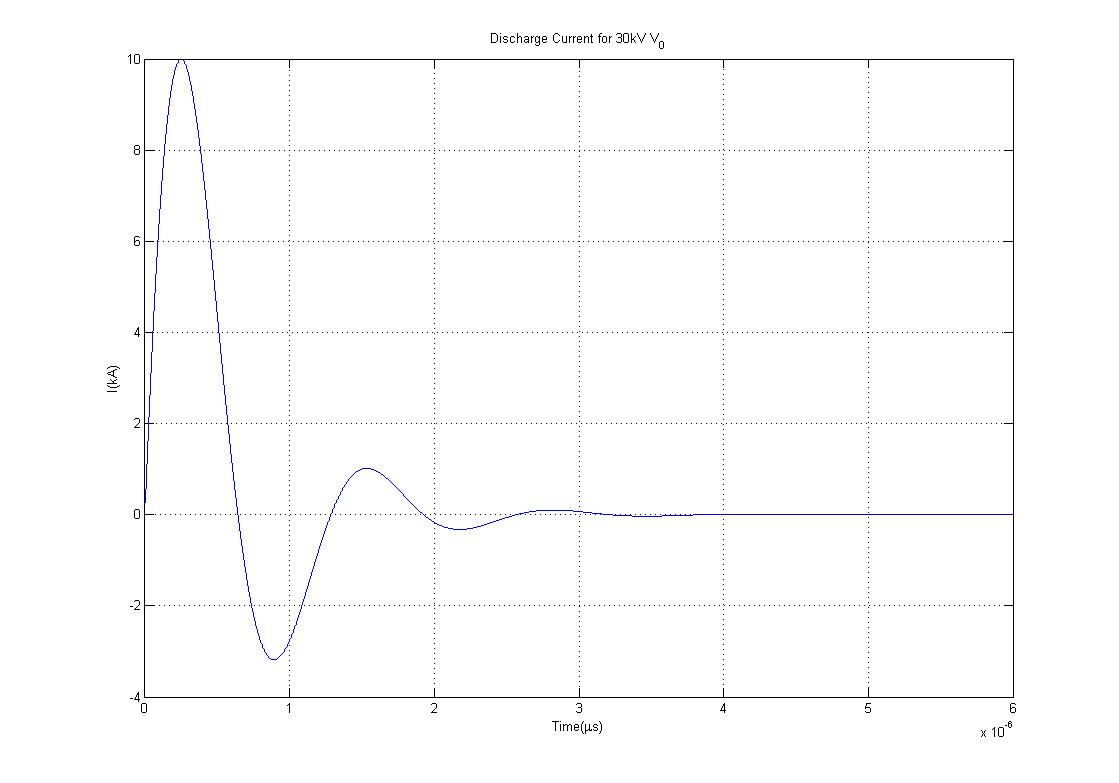
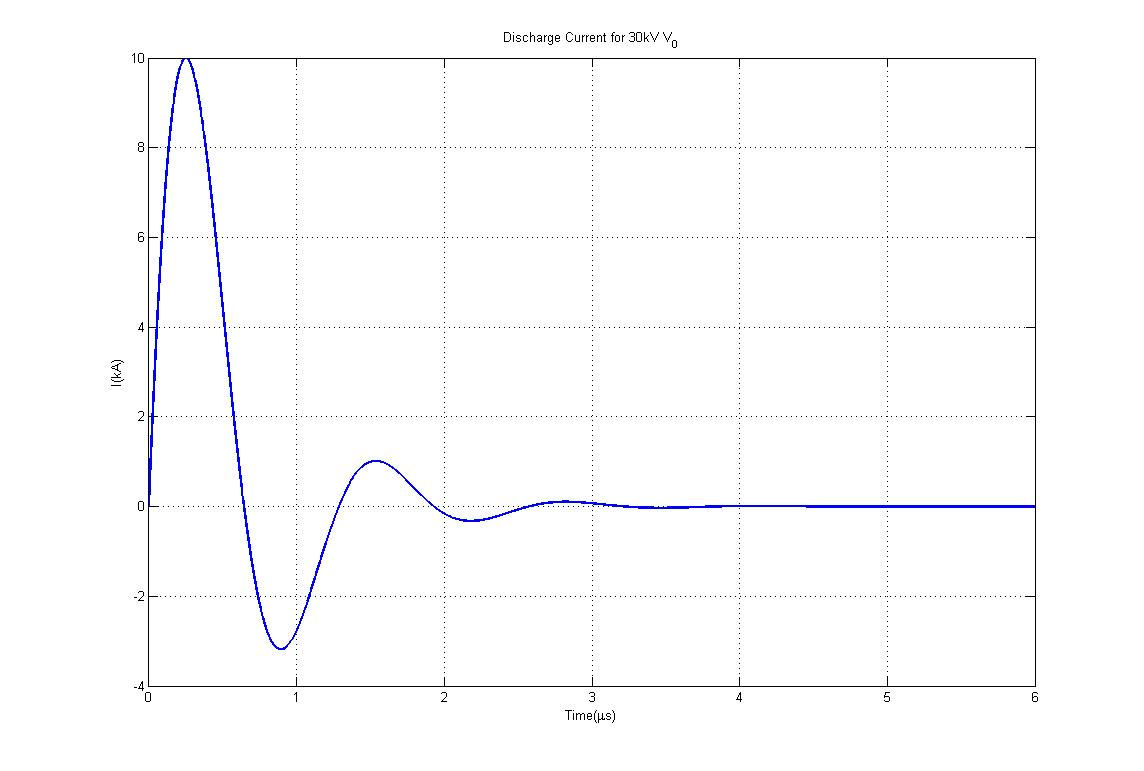
Complete code for Q4
Q4 Completed

diff --git a/Coursework 2/Question 4/Q4.m b/Coursework 2/Question 4/Q4.m
@@ -34,11 +34,7 @@ title('Graph of F(\gamma) for \gamma =-1:1')
 gamma = 0.3421;
 % Calculate L using Im1 equation and R using gamma equation.
 L = ((V0.*sqrt(C).*g(gamma))./Im1).^2
-%Lt = ((tm1./f(gamma))^2).*(1./C)
 R = 2.*gamma.*sqrt(L./C)
-% Gives values of;
-%   L = 36.98 H
-%   R = 3.56*10^-5 Ohm / 35.6 uOhm
 
 
 %% Part D
@@ -46,10 +42,10 @@ R = 2.*gamma.*sqrt(L./C)
 %gamma = 0.5*R*sqrt(C/L)
 omega = (1/sqrt(L*C)).*sqrt(1-(gamma^2))
 t = 0:1*10^-10:0.6*10^-5;
-Im = (V0./(omega.*L)).*sin(omega.*t).*exp(-(R/(2*L)).*t)./(1*10^3);
+Im = (V0./(omega.*L)).*sin(omega.*t).*exp(-(R/(2*L)).*t);
 tm = (sqrt(L.*C)).*((1./sqrt(1-(gamma.^2))).*asin(sqrt(1-(gamma.^2))));
 figure
-plot(t,Im)
+plot(t.*10^6,Im./(1*10^3),'Linewidth',2)
 grid on
 xlabel('Time(\mus)')
 ylabel('I(kA)')
@@ -62,38 +58,50 @@ T = 2*Tz;
 Lest = (T^2)./(4.*(pi^2).*C)
 Rest = (-2./pi).*(sqrt(Lest./C)).*(log(abs(Im2)./Im1))
 
-% %% Part E 
-% % Repeat C and D from the following conditions.
-% C = 54*10^-6;
-% V0 = 27*10^3;
-% Im1 = 1*10^6;
-% tm1 = 1.7*10^-6;
-% % Repeat from part C
-% gamma = -1:0.01:1;
-% F = C.*V0.*f(gamma).*g(gamma)-(tm1*Im1);
-% % Plot
-% figure 
-% plot(gamma,F,'linewidth',2)
-% grid on
-% xlabel('\gamma')
-% ylabel('F(\gamma)')
-% title('Graph of F(\gamma) for \gamma =-1:1')
-% % From datapoint method at F(gamma) = 0, gamma = 0.1464
-% gamma = 0.1464;
-% % Calculate L using Im1 equation and R using gamma equation.
-% L = (V0.*sqrt(C).*g(gamma)).^2
-% R = 2.*gamma.*sqrt(C./L)
-% % Gives values of;
-% %   L = 25.8 kH
-% %   R = 1.3388*10^-5 Ohm / 13.39uOhm
-% % Repeat from Part D
-% omega = (1/sqrt(L*C)).*sqrt(1-(gamma^2))
-% t = 0:0.01:1;
-% Im = (V0./(omega.*L)).*sin(omega.*t).*exp(-(R/(2*L)).*t);
-% tm = (sqrt(L.*C)).*((1./sqrt(1-(gamma.^2))).*asin(sqrt(1-(gamma.^2))));
-% figure
-% plot(t,Im)
-% title('Part E')
-% 
-% %% Part F
-% % Written
+%% Part E 
+% Repeat C and D from the following conditions.
+C2 = 54*10^-6;
+V02 = 27*10^3;
+Im12 = 1*10^6;
+tm12 = 1.7*10^-6;
+% Repeat from part C
+gamma = -1:0.01:1;
+F = C.*V0.*f(gamma).*g(gamma)-(tm1*Im1);
+% Plot
+figure 
+plot(gamma,F,'linewidth',2)
+grid on
+xlabel('\gamma')
+ylabel('F(\gamma)')
+title('Graph of F(\gamma) for \gamma =-1:1')
+% From datapoint method at F(gamma) = 0, gamma = 0.1464
+gamma_c = 0.1464;
+% Calculate L using Im1 equation and R using gamma equation.
+L2 = ((V02.*sqrt(C2).*g(gamma_c))./Im1).^2
+R2 = 2.*gamma_c.*sqrt(L2./C2)
+% Repeat from Part D
+omega = (1/sqrt(L2*C2)).*sqrt(1-(gamma_c^2))
+t2 = 0:1*10^-6:6*10^-3;
+Im_2 = (V02./(omega.*L2)).*sin(omega.*t2).*exp(-(R2/(2*L2)).*t2);
+tm2 = (sqrt(L2.*C2)).*((1./sqrt(1-(gamma_c.^2))).*asin(sqrt(1-(gamma_c.^2))));
+figure
+plot(t2.*10^3,Im_2./(1*10^3),'Linewidth',2)
+grid on
+xlabel('Time(ms)')
+ylabel('I(kA)')
+title('Discharge Current for 27kV V_{0}')
+% Find Im2 and Tz
+% First peak
+Im_2_max = max(Im_2);
+T1idx = find(Im_2 == Im_2_max);
+T1 = t2(T1idx);
+% Second peak
+Im_2_min = min(Im_2);
+Tzidx = find(Im_2 == Im_2_min);
+Tz = t(Tzidx);
+T = 2*Tz;
+Lest2 = (T^2)./(4.*(pi^2).*C2)
+Rest2 = (-2./pi).*(sqrt(Lest./C2)).*(log(abs(Im_2_min)./Im_2_max))
+
+%% Part F
+% Written
